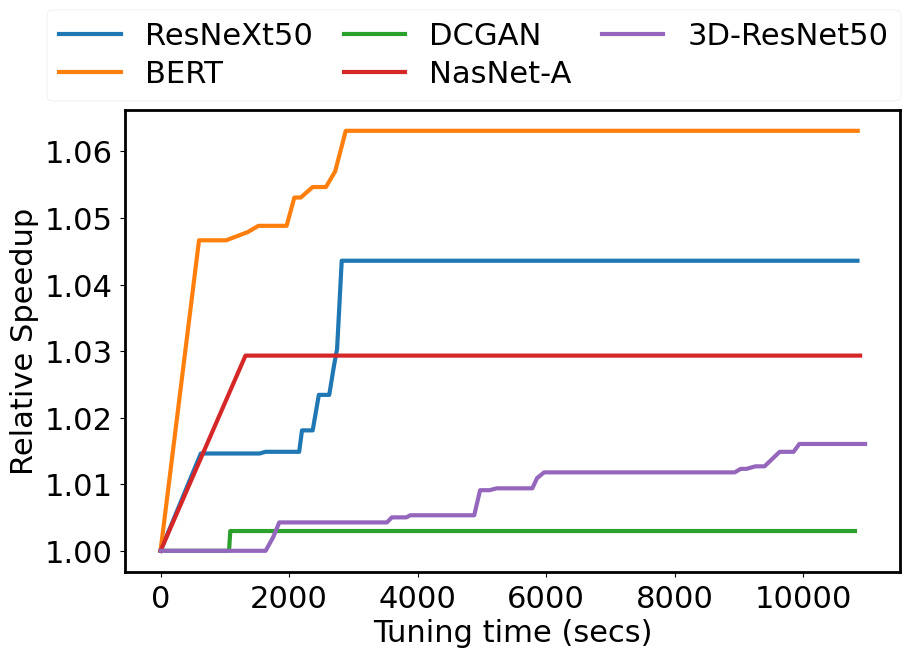
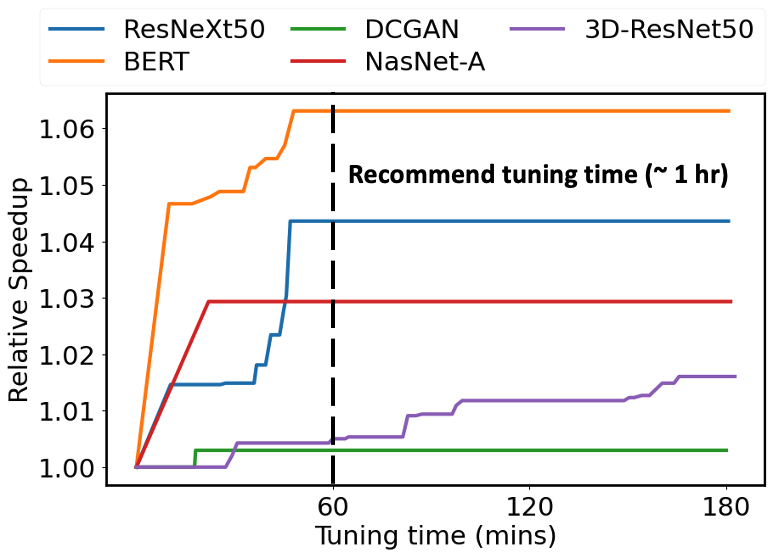
[Two-level time perf plot] secs -> mins, first data is read from the log instead of inferring DP perf

diff --git a/sandbox/testing/plot_time_perf.py b/sandbox/testing/plot_time_perf.py
@@ -35,13 +35,25 @@ def plot_single_net(net_name):
     # plt.xticks(rotation=45)
     plt.savefig(fig_name, bbox_inches='tight')
 
-def load_dp_perf(net_name, hw):
-    perf_dic = E2EPerfLogger().read_dict_from_csv()
-    key = E2EPerfLogger().gen_dic_key(hw, net_name, 'DP')
-    mean_perf, _ = perf_dic[key]
+def fill_up_missing_first_val(tuning_time, inf_time, net_df, net_name, hw):
+    def load_dp_perf(net_name, hw):
+        perf_dic = E2EPerfLogger().read_dict_from_csv()
+        key = E2EPerfLogger().gen_dic_key(hw, net_name, 'DP')
+        mean_perf, _ = perf_dic[key]
 
-    return float(mean_perf)
+        return float(mean_perf)
 
+    # If there is a missing first dp perf
+    tuning_time.insert(0, 0)
+    dp_inf_time = load_dp_perf(net_name, hw)
+    if inf_time[0] > dp_inf_time:
+        dp_inf_time = inf_time[0]
+        print(
+            f"[{net_name}] DP inf time is longer than best inf time of two-level after first iteration, measurement error")
+
+    inf_time.insert(0, dp_inf_time)
+
+    return tuning_time, inf_time, dp_inf_time
 
 def plot_all_nets(networks, hw, batch_size):
     plot_file_name = "time_perf_all_networks"
@@ -51,24 +63,24 @@ def plot_all_nets(networks, hw, batch_size):
 
     for net_name in networks:
         file_name = f"time_perf_{net_name}_{hw}_bs{batch_size}"
+        # net_df = pd.read_csv(f"{LOG_PATH}/eval_results/rtx2070_bs1/210905/{file_name}.log", index_col=0)
         net_df = pd.read_csv(f"{LOG_PATH}/eval_results/rtx2070_bs1/{file_name}.log", index_col=0)
+
         tuning_time = net_df.index.tolist()
-        tuning_time.insert(0, 0)
+        inf_time = net_df.iloc[:, 0].tolist()
 
-        dp_inf_time = load_dp_perf(net_name, hw)
-        inf_time = net_df.iloc[:,0].tolist()
-        if inf_time[0] > dp_inf_time:
-            dp_inf_time = inf_time[0]
-            print(f"[{net_name}] DP inf time is longer than best inf time of two-level after first iteration, measurement error")
+        tuning_time, inf_time, dp_inf_time = fill_up_missing_first_val(tuning_time, inf_time, net_df, net_name, hw)
+        # dp_inf_time = inf_time[0]
+        tuning_time, inf_time = np.array(tuning_time) / 60.0, np.array(inf_time)
 
-        inf_time.insert(0, dp_inf_time)
-        inf_time = np.array(inf_time)
         rel_speed_up = dp_inf_time/inf_time
 
         net_name = NET_NAME_TO_OFFICIAL[net_name]
         plt.plot(tuning_time, rel_speed_up, label=net_name)
 
-    plt.xlabel('Tuning time (secs)')
+    # plt.xlabel('Tuning time (secs)')
+    plt.xticks(range(60, 181, 60))
+    plt.xlabel('Tuning time (mins)')
     plt.ylabel('Relative Speedup')
     plt.legend(ncol=3, loc='upper center', bbox_to_anchor=(0.45, 1.25), labelspacing=0.3, columnspacing=1.0)
 
